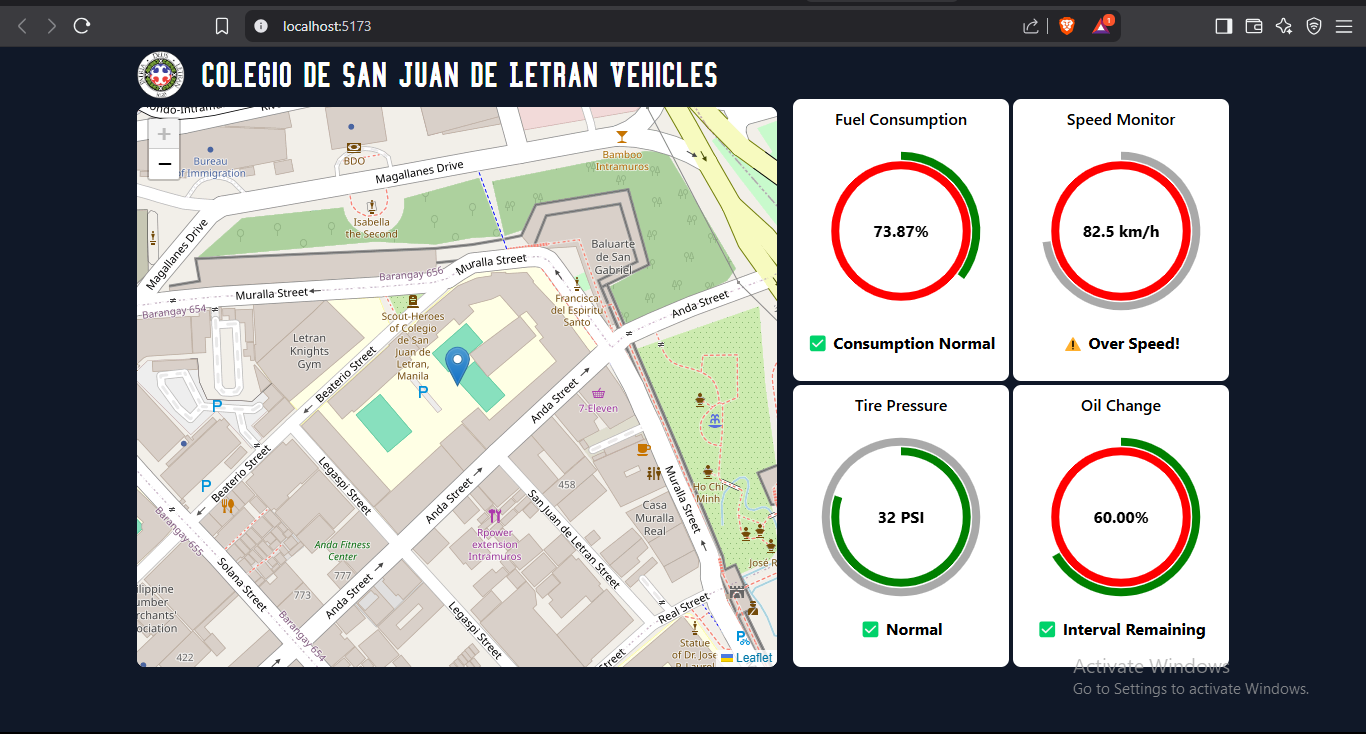
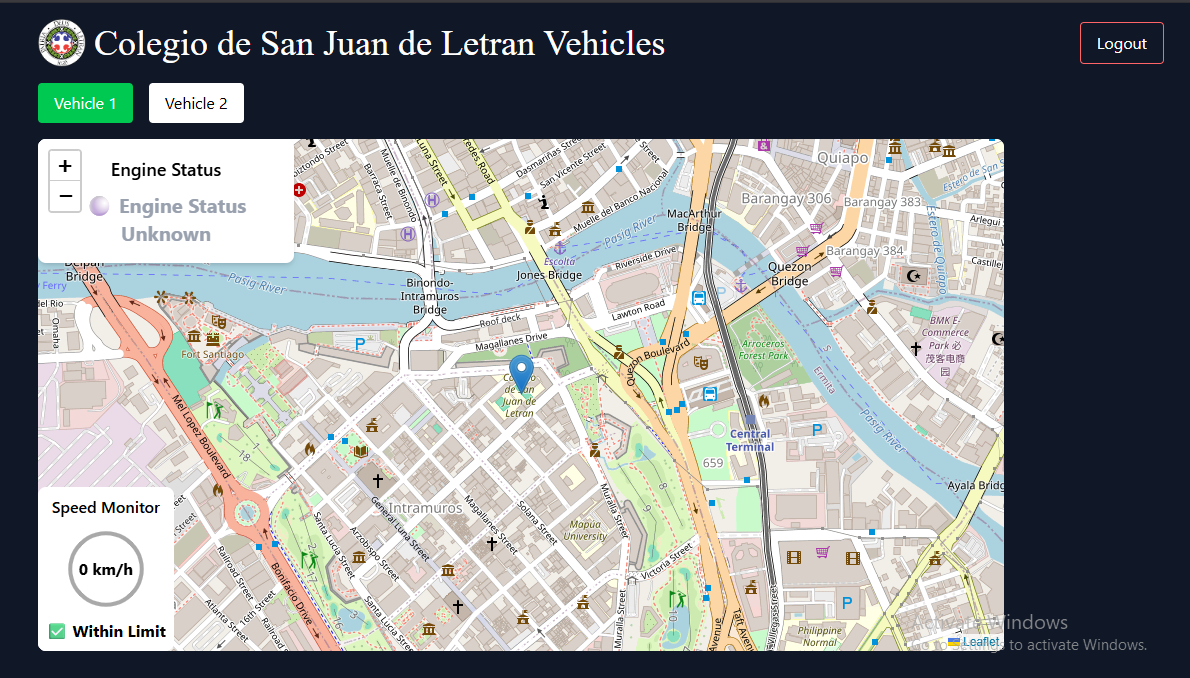
Added Button and loading

diff --git a/src/components/dashboard/user.jsx b/src/components/dashboard/user.jsx
@@ -14,7 +14,11 @@ function Driver({onLogout}) {
     speed: 0
   });
 
+  const [activeButton, setActiveButton] = useState('v1');
+  const [loading, setloading] = useState(false);
+
   useEffect(() => {
+    setloading(true);
     const fetchTelemetry = async () => {
       try {
         const res = await axios.get("http://localhost:5000/api/telemetry");
@@ -25,26 +29,49 @@ function Driver({onLogout}) {
           longitude: longitude || 120.9767,
           speed: speed || 0,
           engineStatus: engineStatus,
-
-
         });
       } catch (error) {
         console.error("Failed to fetch telemetry:", error);
+      } finally {
+        setTimeout(() => {
+          setloading(false);
+        }, 1000); // Simulate loading delay
+        // setloading(false);
       }
     };
 
     fetchTelemetry();
     const interval = setInterval(fetchTelemetry, 3000);
     return () => clearInterval(interval);
-  }, []);
+  }, [activeButton]);
 
   return (
     <div className="flex flex-col w-full">
       <Header onLogout={onLogout} />
+      <div className="flex items-center gap-4 px-50 mb-4">
+        <button 
+        onClick={() => setActiveButton('v1')}
+        className={`${activeButton === 'v1' ? 'bg-green-500 text-white' : 'bg-white'} rounded px-4 py-2  `}>Vehicle 1</button>
+        <button 
+        onClick={() => setActiveButton('v2')}
+        className={`${activeButton === 'v2' ? 'bg-green-500 text-white' : 'bg-white'} rounded px-4 py-2  `}>Vehicle 2</button>
+      </div>
         <div className="relative">
-            <Gps latitude={telemetry.latitude} longitude={telemetry.longitude} />
-            <div className="absolute bottom-0 left-50 z-999"><SpeedMonitor speed={telemetry.speed} /></div>
-            <div className="absolute z-999 left-50 top-0"><EngineStatus status={telemetry.engineStatus} /></div>
+          {loading ? (
+            <div className="flex justify-center items-center h-full w-full bg-white">
+              <div className="h-10 w-10
+              absolute top-0 left-50 z-999 animate-spin border-4 border-blue-500 
+              border-t-transparent rounded-full">
+              </div>
+            </div>
+
+          ) : (
+            <>
+              <Gps latitude={telemetry.latitude} longitude={telemetry.longitude} />
+              <div className="absolute bottom-0 left-50 z-999"><SpeedMonitor speed={telemetry.speed} /></div>
+              <div className="absolute z-999 left-50 top-0"><EngineStatus status={telemetry.engineStatus} /></div>
+            </>
+          )}
         </div>
     </div>
   );

diff --git a/src/components/mapcomponents/header.jsx b/src/components/mapcomponents/header.jsx
@@ -10,7 +10,7 @@ export default function Header({ onLogout }){
 
     return(
         <div className="flex z-999 items-center">
-            <div className="sticky top-0 flex space-x-2 items-center py-4  w-full justify-center">
+            <div className="sticky top-0 flex space-x-2 items-center py-4  w-full sm:pl-50">
                 <img src={Logo} alt="" className="w-[3rem] h-[3rem]" />
                 <h6 className="text-4xl font-[collegeFont] text-white">
                     Colegio de San Juan de Letran Vehicles

diff --git a/src/components/mapcomponents/gps.jsx b/src/components/mapcomponents/gps.jsx
@@ -30,7 +30,7 @@ export default function Gps({ latitude, longitude }) {
 
   return (
     <div className="w-full z-999 px-50 ">
-      <MapContainer center={position} zoom={16} className="h-[35rem] w-full rounded-lg">
+      <MapContainer center={position} zoom={16} className="h-[32rem] w-full rounded-lg">
         <ChangeView center={position} />
         <TileLayer url="https://{s}.tile.openstreetmap.org/{z}/{x}/{y}.png" />
         <Marker position={position} icon={customIcon}>

diff --git a/README.md b/README.md
@@ -2,11 +2,11 @@
 
 ![cdDemo](./src/components/dashboard/images/screenDemo.png)
 
-### This website is equipped with orange-pi for data gathering and api(not updated yet) for data storage
+### This website is equipped sinotrack for gathering data and accessible using flespi via api
 
 # Download & Extraction
 
-1. Install Node.Js 
+1. Install Node.Js (If not done yet)
     * ```bash
             https://nodejs.org/en
         ```
